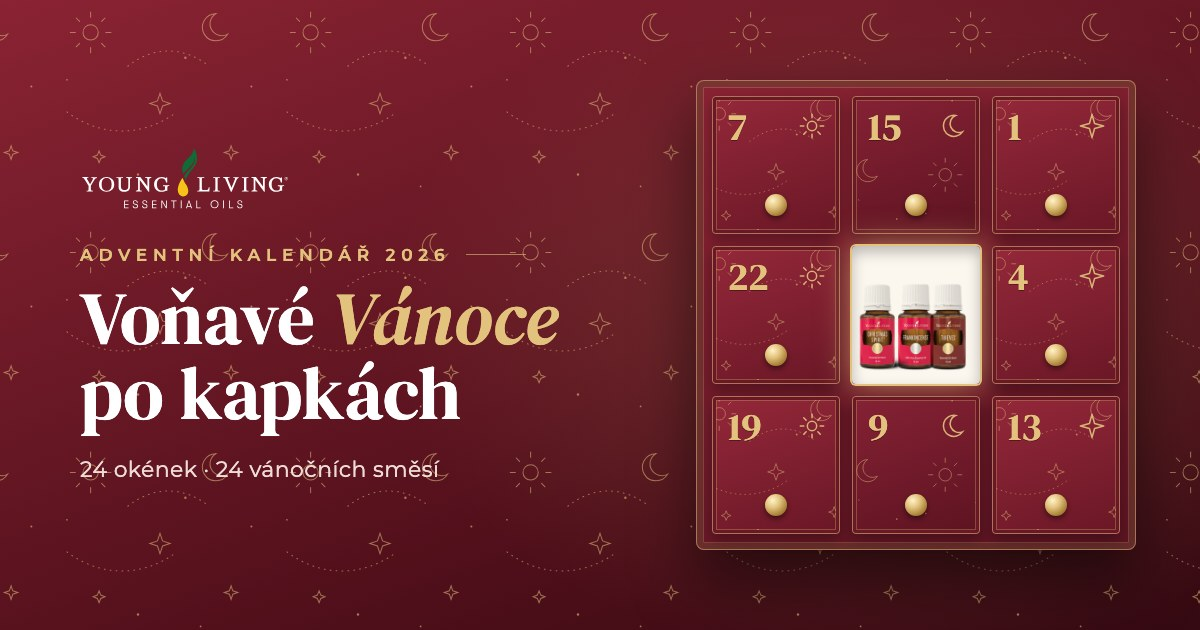
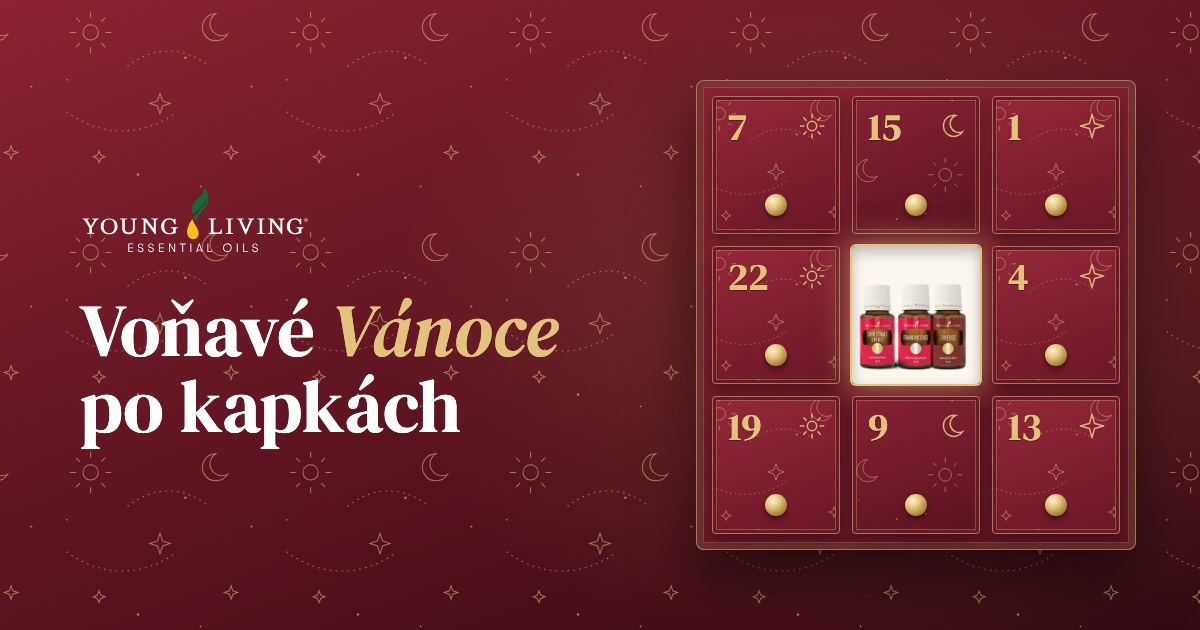
Náhledovka jen s logem, nadpisem a okénky

Changed region(s): [[0.0617, 0.4524, 0.4625, 0.754], [0.0617, 0.2413, 0.37, 0.4222]]

diff --git a/index.html b/index.html
@@ -8,7 +8,7 @@
 <meta property="og:title" content="Voňavý adventní kalendář 2026">
 <meta property="og:description" content="Každý den v prosinci jedna nová směs olejů Young Living. Otevřete si dnešní okénko!">
 <meta property="og:type" content="website">
-<meta property="og:image" content="https://lucasgajza.github.io/adventni-okenka/nahled.jpg?v=4">
+<meta property="og:image" content="https://lucasgajza.github.io/adventni-okenka/nahled.jpg?v=5">
 <meta property="og:image:width" content="1200">
 <meta property="og:image:height" content="630">
 <meta name="twitter:card" content="summary_large_image">
